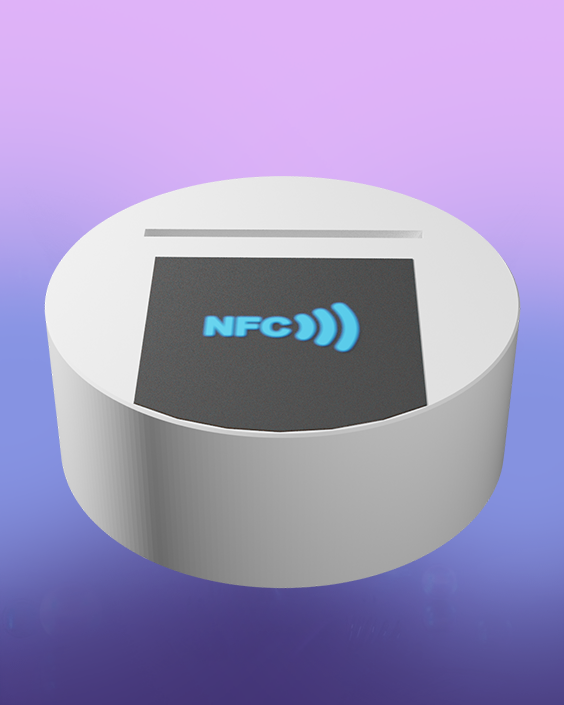
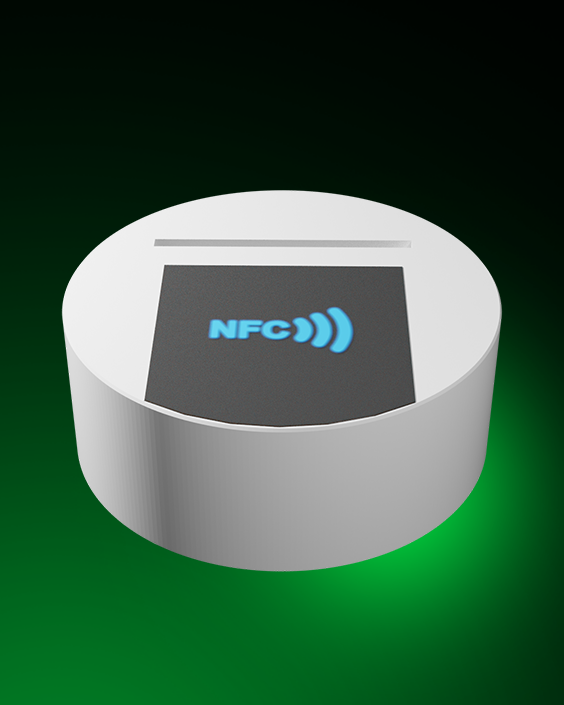
7/5/2023

diff --git a/app/dist/app.css b/app/dist/app.css
@@ -20,7 +20,7 @@ body {
   font-weight: 300;
   line-height: 1.4;
   color: #FFFFFF;
-  background: #070A29;
+  background: #000000;
   position: relative;
   overflow-x: hidden;
   color: #FFFFFF;
@@ -782,7 +782,7 @@ a {
   position: absolute;
   opacity: 0;
   visibility: hidden;
-  background: #070A29;
+  background: #000;
   top: -100%;
   transition: all 0.4s ease-in-out;
   box-shadow: 1px 1px 5px 0px rgba(0, 0, 0, 0.3);
@@ -2161,7 +2161,7 @@ a {
 }
 
 .mfp-preloader {
-  color: #cccccc;
+  color: #01d63f;
   position: absolute;
   top: 50%;
   width: auto;
@@ -2173,7 +2173,7 @@ a {
 }
 
 .mfp-preloader a {
-  color: #cccccc;
+  color: #01d63f;
 }
 
 .mfp-preloader a:hover {
@@ -3770,7 +3770,7 @@ img.mfp-img {
 }
 
 .create__main {
-  background: linear-gradient(264.28deg, #28ef04f7 -38.2%, #27e0fe 103.12%);
+  background: linear-gradient(264.28deg, #28ef04f7 -38.2%, #1c6536 103.12%);
   border-radius: 26px;
   position: relative;
 }
@@ -5362,7 +5362,7 @@ section.banner.s3.s2 .container .swiper-button-prev {
 .preloader {
   width: 100%;
   height: 100%;
-  background-color: #fff;
+  background-color: #000;
   position: fixed;
   top: 0;
   left: 0;
@@ -5400,7 +5400,7 @@ section.banner.s3.s2 .container .swiper-button-prev {
   content: "";
   display: block;
   border-radius: 50%;
-  border: 2px solid var(--primary-color);
+  border: 2px solid #01d63f;
   position: absolute;
   top: 50%;
   left: 50%;
